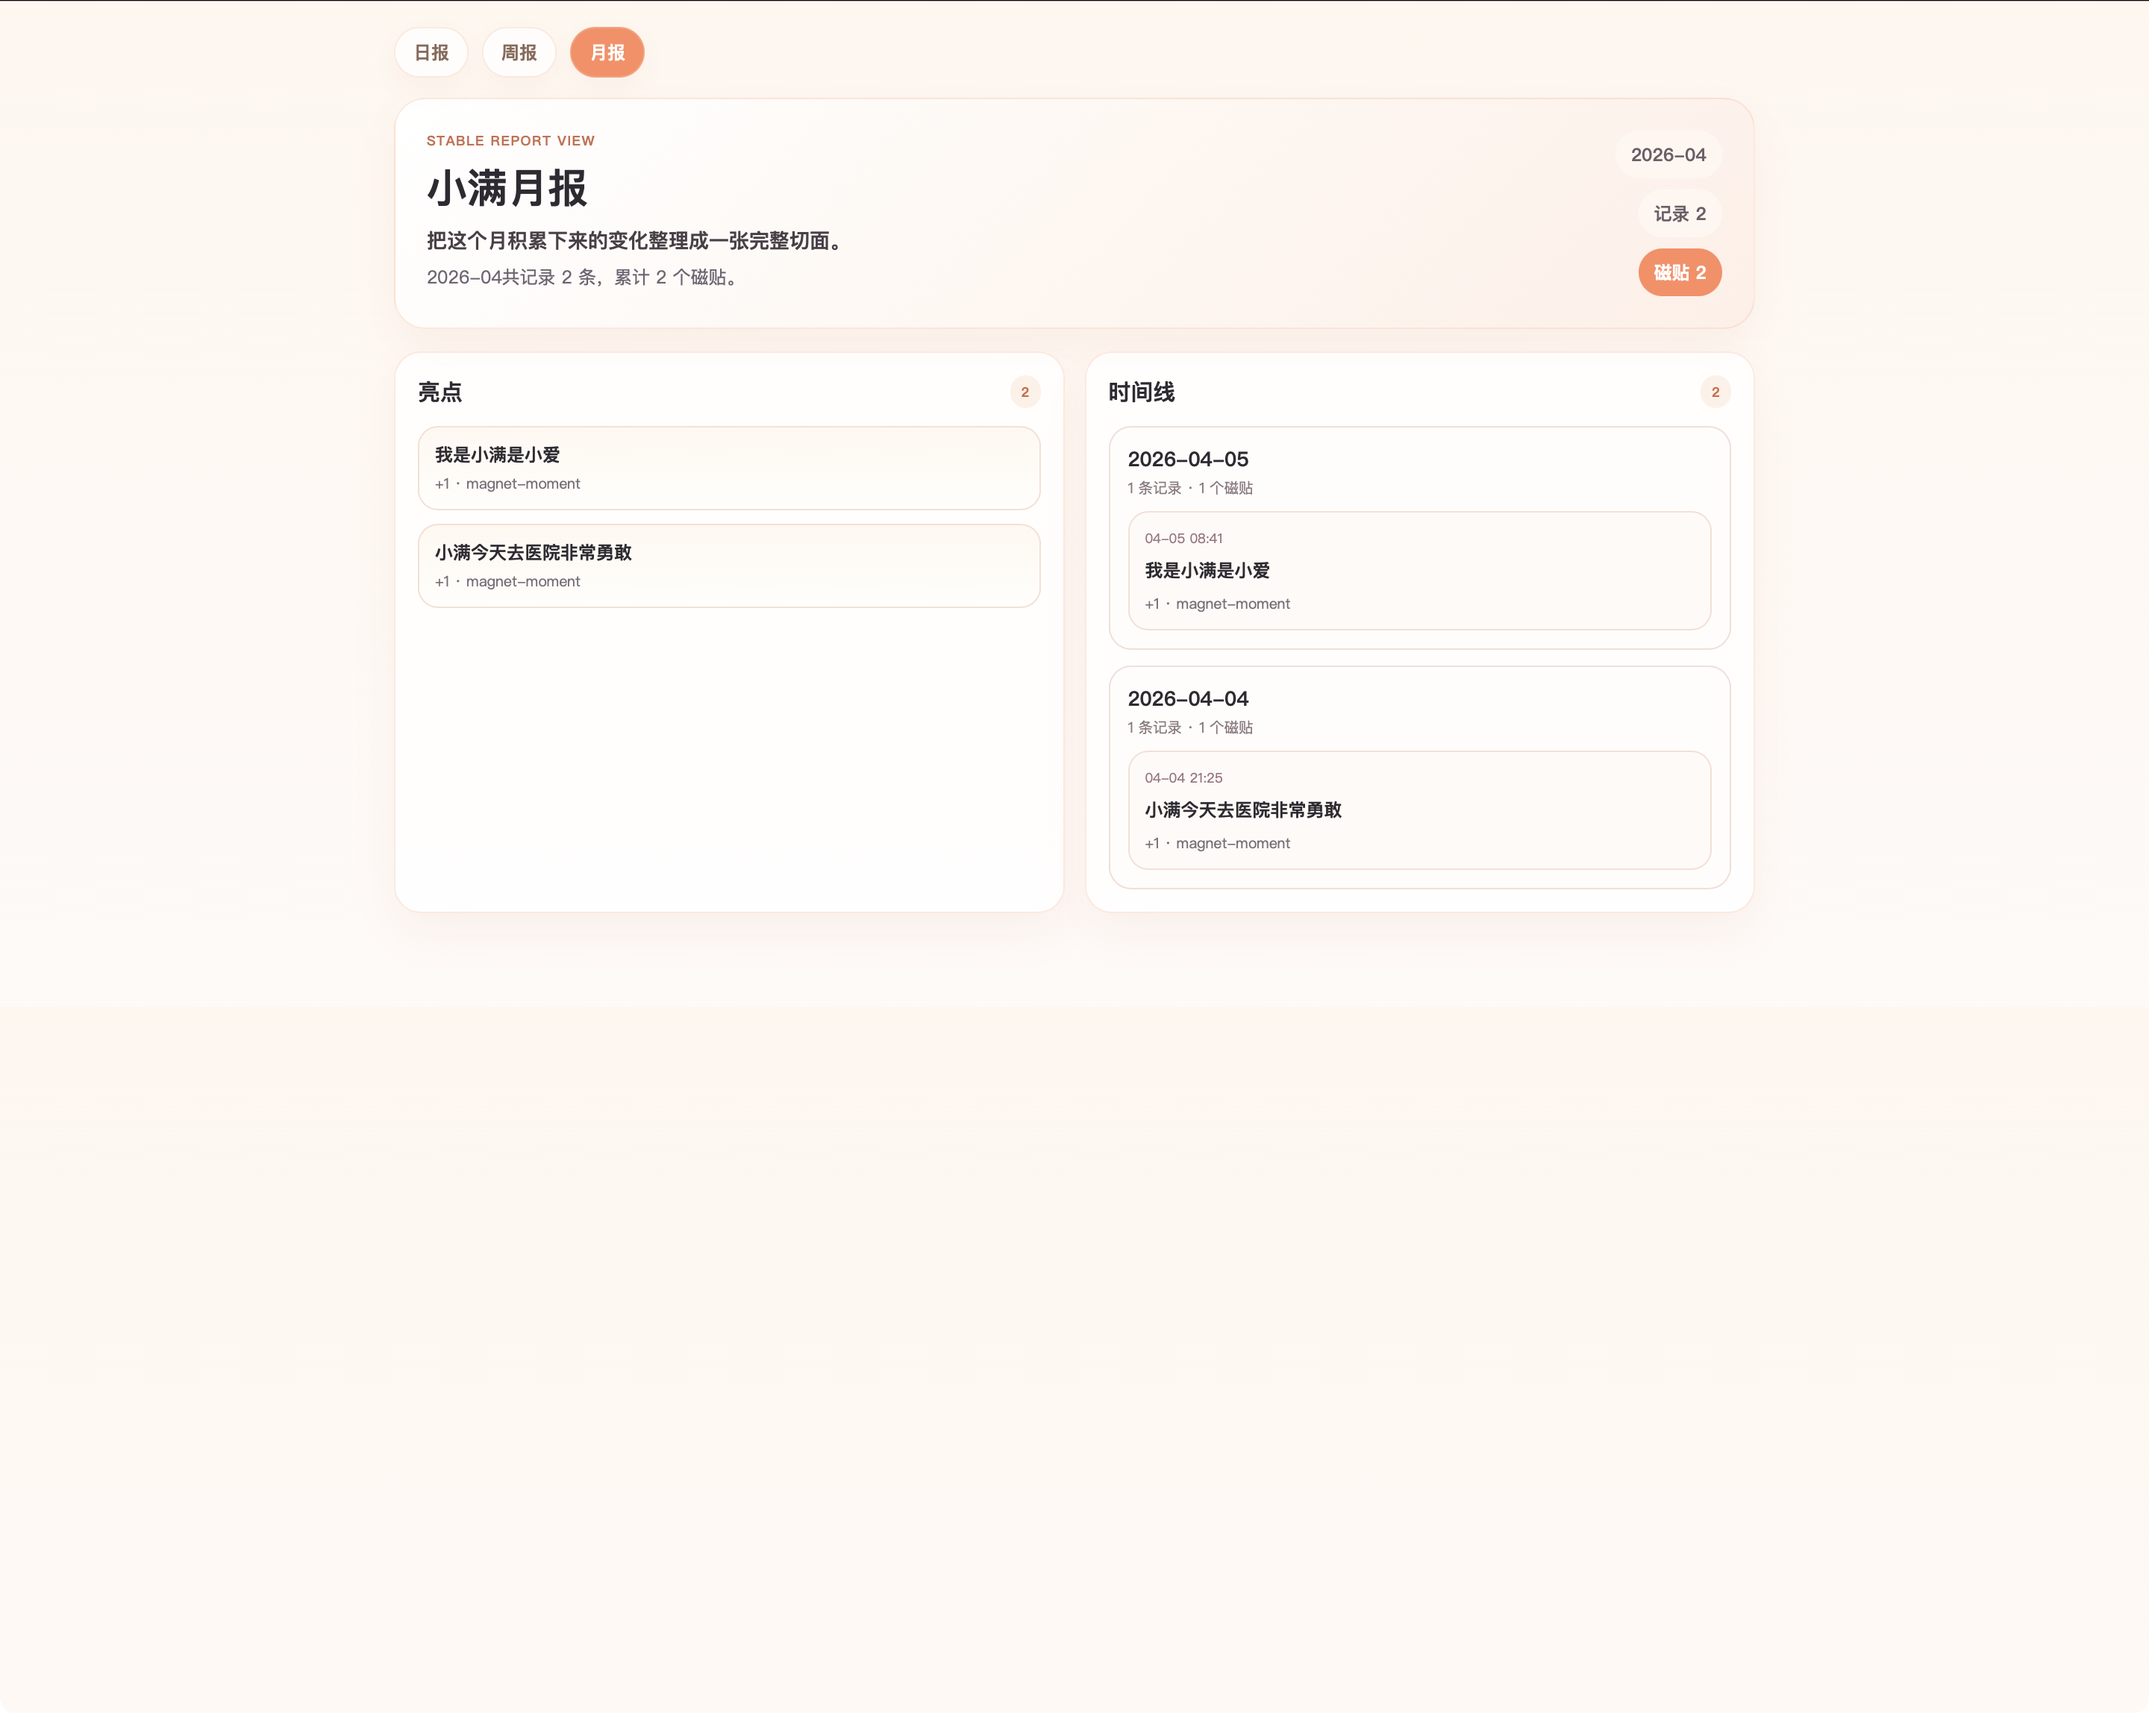
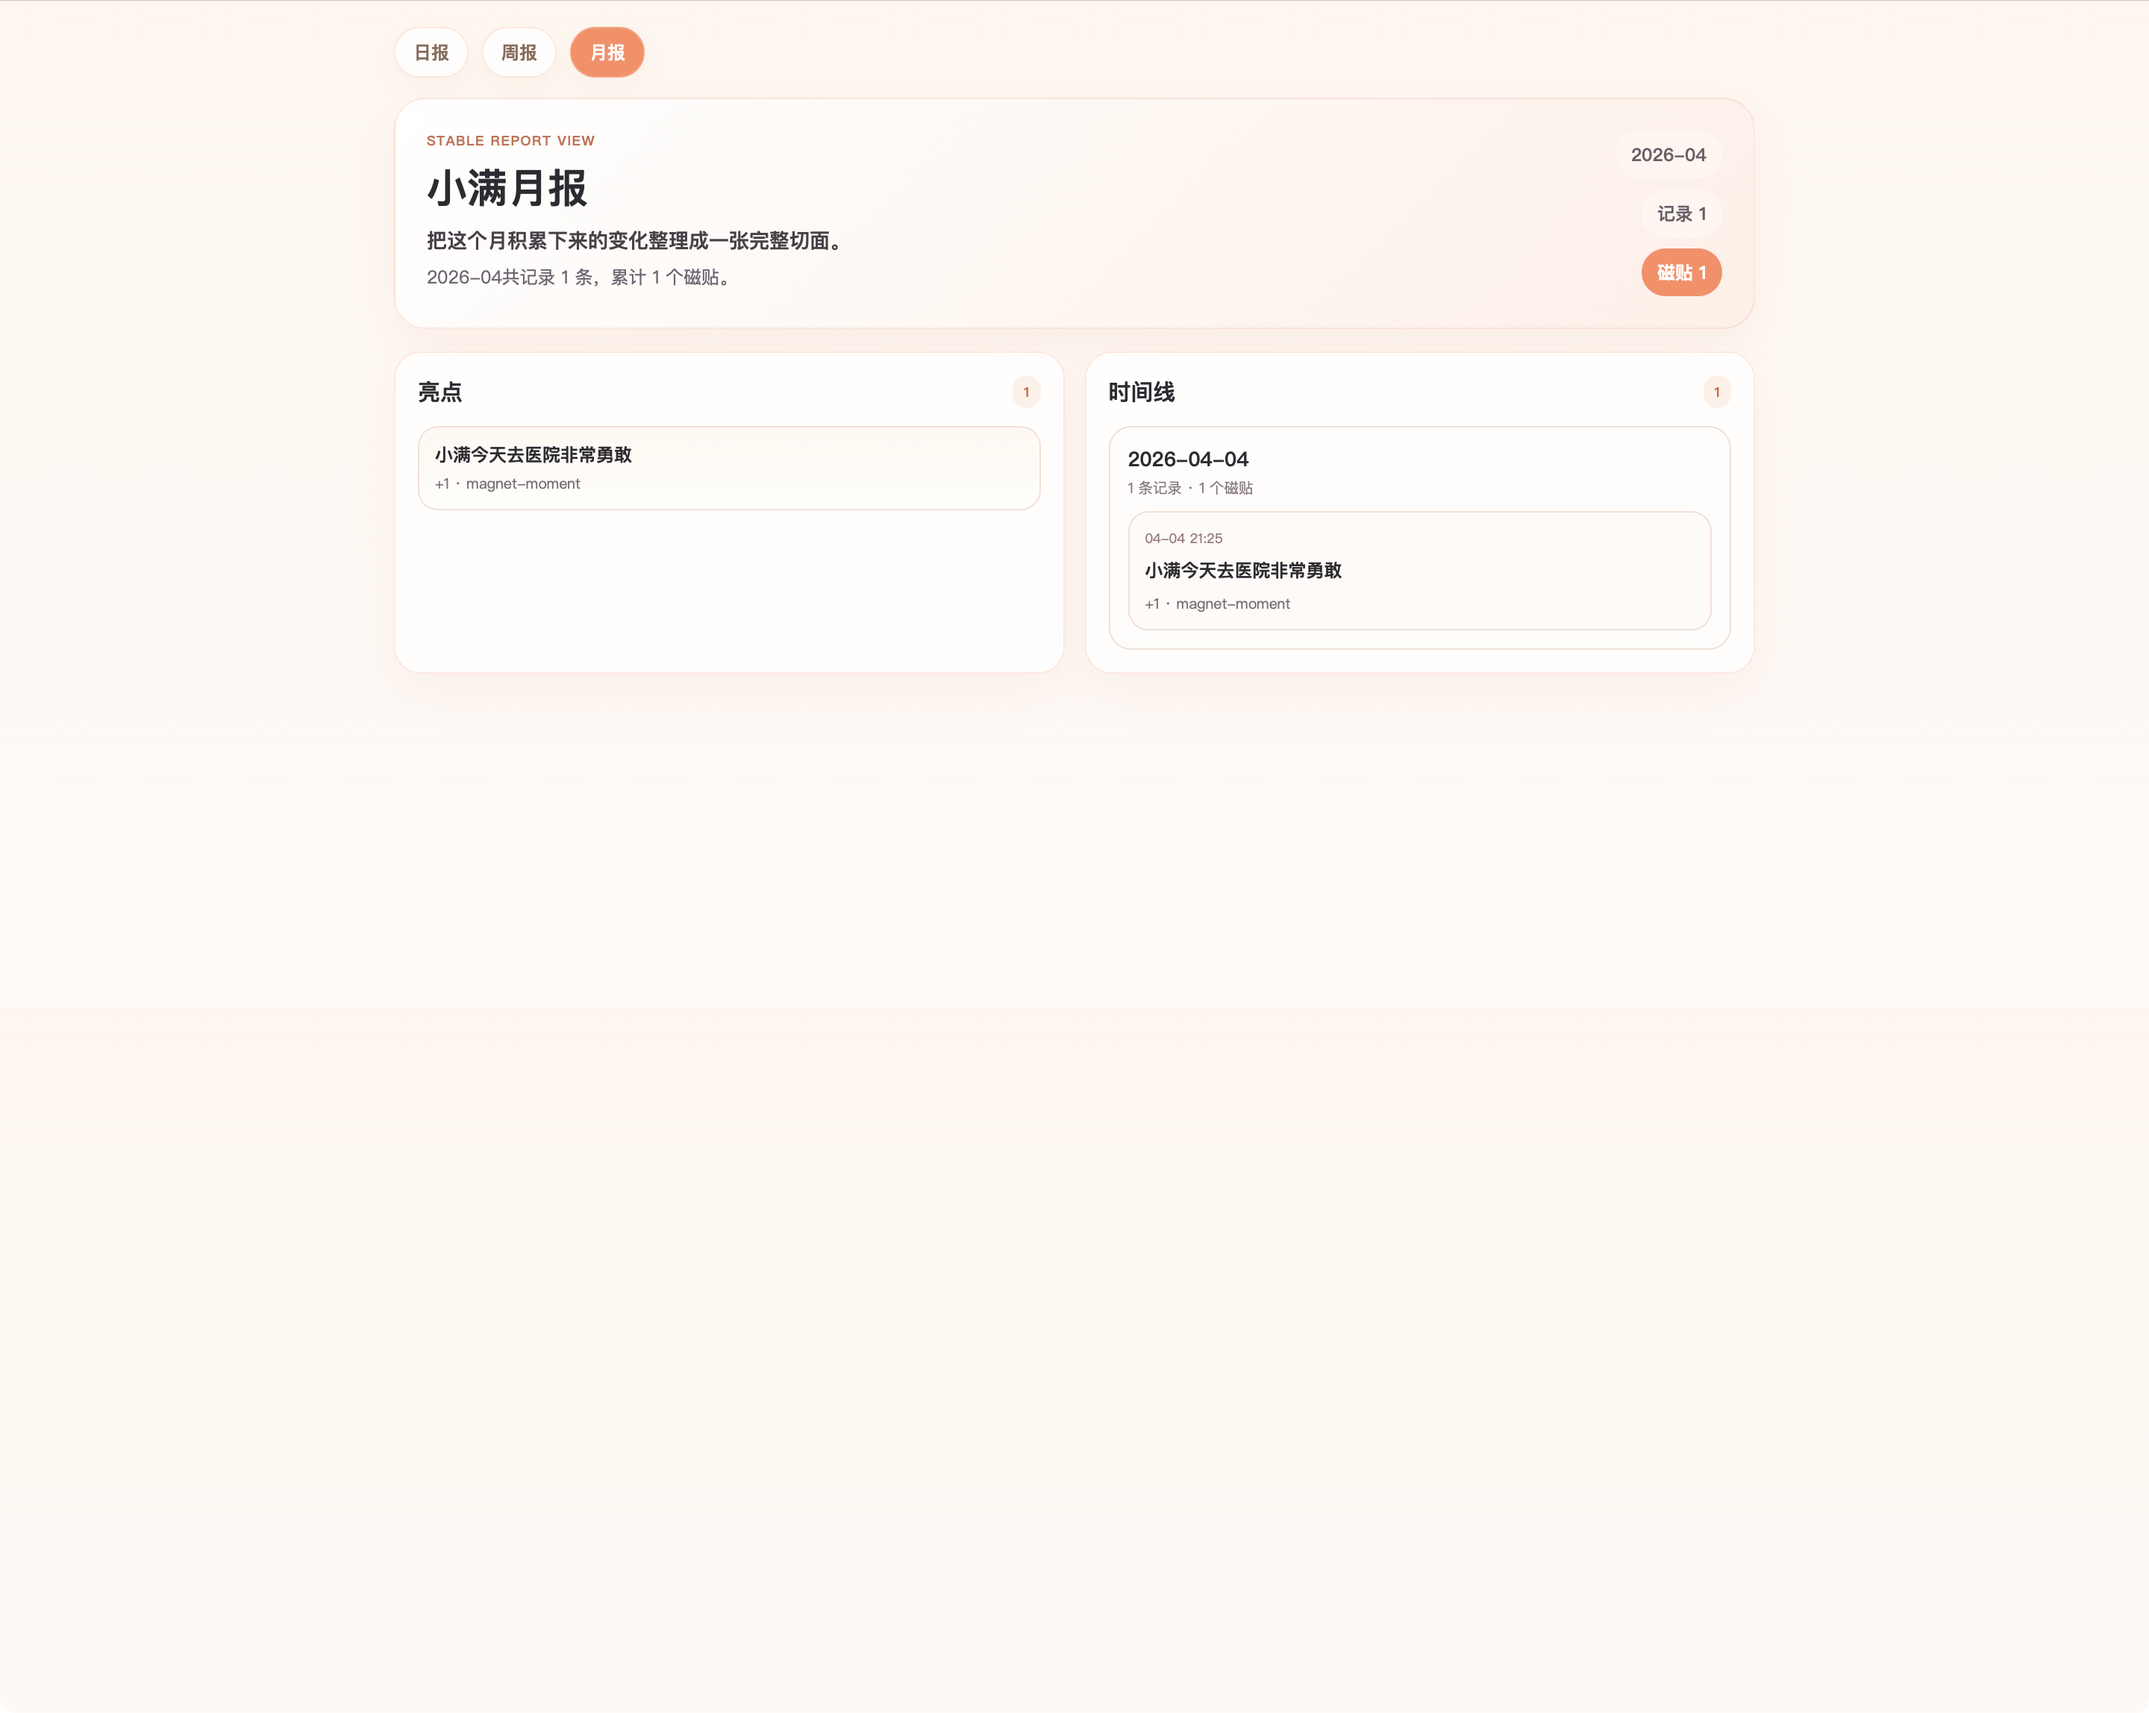
Refresh XiaoMan growth record pages

diff --git a/projects/xiaoman-growth-journal/index.html b/projects/xiaoman-growth-journal/index.html
@@ -64,6 +64,12 @@
       line-height: 1.7;
       max-width: 760px;
     }
+    .hero-meta {
+      margin-top: 14px;
+      color: var(--accent);
+      font-size: 14px;
+      letter-spacing: 0.04em;
+    }
     .overview-grid {
       display: grid;
       grid-template-columns: 1.2fr 0.8fr;
@@ -98,7 +104,7 @@
       font-size: 28px;
       line-height: 1;
     }
-    .mock-note {
+    .chart-note {
       font-size: 13px;
       color: var(--accent);
       margin-bottom: 14px;
@@ -239,6 +245,14 @@
       color: var(--muted);
       line-height: 1.7;
     }
+    .timeline-points {
+      margin: 10px 0 0;
+      padding-left: 18px;
+      color: var(--muted);
+    }
+    .timeline-points li {
+      margin-bottom: 6px;
+    }
     .footer-links {
       padding-top: 18px;
       display: flex;
@@ -292,6 +306,7 @@
       <div class="eyebrow">XiaoMan Growth Journal</div>
       <h1>小满成长记录</h1>
       <p>把日报、周报、月报放在同一个页面里纵向查看，适合连续回顾，也更适合手机端和网页端的滚动浏览。</p>
+      <div class="hero-meta" id="last-updated">更新于 --</div>
     </section>
 
     <section class="overview-grid">
@@ -308,7 +323,7 @@
 
       <div class="panel">
         <h2>图表预览</h2>
-        <div class="mock-note">以下柱状图是 Mock 交互预览，只用于看展示效果，不会写回也不会篡改任何真实报告数据。</div>
+        <div class="chart-note">以下柱状图基于当前月报中的真实时间线数据，展示本月每天的磁贴变化。</div>
         <div class="chart" id="mock-chart"></div>
       </div>
     </section>
@@ -331,6 +346,7 @@
       monthlyMagnets: document.getElementById("monthly-magnets"),
       monthlyDays: document.getElementById("monthly-days"),
       mockChart: document.getElementById("mock-chart"),
+      lastUpdated: document.getElementById("last-updated"),
     };
 
     function renderHighlights(items) {
@@ -359,7 +375,9 @@
             <span class="timeline-total">+${item.magnet_total || 0}</span>
           </div>
           <div class="timeline-meta">${item.count || 0} 条记录</div>
-          <div class="timeline-body">${(item.items || []).slice(0, 3).map((entry) => entry.description).join(" / ") || "暂无详情"}</div>
+          <ul class="timeline-points">
+            ${((item.items || []).slice(0, 3).map((entry) => `<li>${entry.description}</li>`).join("")) || "<li>暂无详情</li>"}
+          </ul>
         </article>
       `).join("");
     }
@@ -415,23 +433,28 @@
       `;
     }
 
-    function renderMockChart() {
-      const mockData = [
-        { label: "周一", value: 3 },
-        { label: "周二", value: 5 },
-        { label: "周三", value: 2 },
-        { label: "周四", value: 6 },
-        { label: "周五", value: 4 },
-        { label: "周末", value: 7 },
-      ];
-      const max = Math.max(...mockData.map((item) => item.value), 1);
-      refs.mockChart.innerHTML = mockData.map((item) => `
+    function formatGeneratedAt(value) {
+      if (!value) return "--";
+      const date = new Date(value);
+      if (Number.isNaN(date.getTime())) return value;
+      const pad = (num) => String(num).padStart(2, "0");
+      return `${date.getFullYear()}-${pad(date.getMonth() + 1)}-${pad(date.getDate())} ${pad(date.getHours())}:${pad(date.getMinutes())}`;
+    }
+
+    function renderChartFromTimeline(items) {
+      if (!items.length) {
+        refs.mockChart.innerHTML = '<div class="empty">本月还没有足够的时间线数据用于绘图。</div>';
+        return;
+      }
+      const ordered = [...items].sort((a, b) => a.date.localeCompare(b.date));
+      const max = Math.max(...ordered.map((item) => item.magnet_total || 0), 1);
+      refs.mockChart.innerHTML = ordered.map((item) => `
         <div class="bar-row">
-          <strong>${item.label}</strong>
+          <strong>${item.date.slice(5)}</strong>
           <div class="bar-track">
-            <div class="bar" style="width:${(item.value / max) * 100}%"></div>
+            <div class="bar" style="width:${((item.magnet_total || 0) / max) * 100}%"></div>
           </div>
-          <span>${item.value}</span>
+          <span>${item.magnet_total || 0}</span>
         </div>
       `).join("");
     }
@@ -457,17 +480,16 @@
       refs.weeklyMagnets.textContent = String(weekly.stats?.magnet_total ?? 0);
       refs.monthlyMagnets.textContent = String(monthly.stats?.magnet_total ?? 0);
       refs.monthlyDays.textContent = String(monthly.stats?.active_days ?? 0);
-      refs.overviewSummary.textContent = [
-        daily.summary || "日报暂无摘要。",
-        weekly.summary || "周报暂无摘要。",
-        monthly.summary || "月报暂无摘要。"
-      ].join(" ");
+      refs.overviewSummary.textContent = `今天新增 ${daily.stats?.count ?? 0} 条记录，本周累计 ${(weekly.stats?.count ?? 0)} 条，本月累计 ${(monthly.stats?.magnet_total ?? 0)} 个磁贴。`;
+      refs.lastUpdated.textContent = `更新于 ${formatGeneratedAt(monthly.generated_at || weekly.generated_at || daily.generated_at)}`;
+      renderChartFromTimeline(monthly.timeline || []);
     }
 
-    renderMockChart();
     loadReports().catch((error) => {
       refs.overviewSummary.textContent = String(error);
+      refs.lastUpdated.textContent = "更新失败";
       refs.grid.innerHTML = '<div class="panel">报告加载失败，请稍后重试。</div>';
+      refs.mockChart.innerHTML = '<div class="empty">图表加载失败，请稍后重试。</div>';
     });
   </script>
 </body>

diff --git a/index.html b/index.html
@@ -171,7 +171,7 @@
                         实验室 / 交互
                     </div>
                     <a href="projects/philosophy-flywheel/index.html" class="nav-item">生活哲学飞轮</a>
-                    <a href="projects/xiaoman-growth-journal/index.html" class="nav-item">小满周报</a>
+                    <a href="projects/xiaoman-growth-journal/index.html" class="nav-item">小满成长记录</a>
                     <a href="projects/project-table-tennis/index.html" class="nav-item">乒乓技术框架图谱</a>
                 </div>
 
@@ -203,8 +203,8 @@
                 </a>
 
                 <a href="projects/xiaoman-growth-journal/index.html" class="project-card">
-                    <h3>小满周报</h3>
-                    <p>把小满的成长记录整理成日报、周报、月报与截图，作为轻量可回顾的家庭成长页面。</p>
+                    <h3>小满成长记录</h3>
+                    <p>把小满的成长记录整理成日报、周报、月报与时间线图表，作为轻量可回顾的家庭成长页面。</p>
                     <div class="project-meta">2026.04.04 • 成长记录</div>
                 </a>
 

diff --git a/projects/xiaoman-growth-journal/data/weekly_summary.md b/projects/xiaoman-growth-journal/data/weekly_summary.md
@@ -1,16 +1,14 @@
 # 小满周报
 
-- 时间范围：2026-03-30 ~ 2026-04-05
-- 记录数：2
-- 磁贴总计：2
+- 时间范围：2026-04-06 ~ 2026-04-12
+- 记录数：0
+- 磁贴总计：0
 
 ## 摘要
-2026-03-30 ~ 2026-04-05共记录 2 条，累计 2 个磁贴。
+2026-04-06 ~ 2026-04-12暂无新的相关记录。
 
 ## 亮点
-- 我是小满是小爱（+1）
-- 小满今天去医院非常勇敢（+1）
+- 暂无亮点记录
 
 ## 全部记录
-- [04-05 08:41] 我是小满是小爱（+1）
-- [04-04 21:25] 小满今天去医院非常勇敢（+1）
+- 暂无记录

diff --git a/projects/xiaoman-growth-journal/data/monthly_summary.md b/projects/xiaoman-growth-journal/data/monthly_summary.md
@@ -1,16 +1,14 @@
 # 小满月报
 
 - 时间范围：2026-04
-- 记录数：2
-- 磁贴总计：2
+- 记录数：1
+- 磁贴总计：1
 
 ## 摘要
-2026-04共记录 2 条，累计 2 个磁贴。
+2026-04共记录 1 条，累计 1 个磁贴。
 
 ## 亮点
-- 我是小满是小爱（+1）
 - 小满今天去医院非常勇敢（+1）
 
 ## 全部记录
-- [04-05 08:41] 我是小满是小爱（+1）
 - [04-04 21:25] 小满今天去医院非常勇敢（+1）

diff --git a/projects/xiaoman-growth-journal/data/daily_summary.md b/projects/xiaoman-growth-journal/data/daily_summary.md
@@ -1,14 +1,14 @@
 # 小满日报
 
-- 时间范围：2026-04-05
-- 记录数：1
-- 磁贴总计：1
+- 时间范围：2026-04-06
+- 记录数：0
+- 磁贴总计：0
 
 ## 摘要
-2026-04-05共记录 1 条，累计 1 个磁贴。
+2026-04-06暂无新的相关记录。
 
 ## 亮点
-- 我是小满是小爱（+1）
+- 暂无亮点记录
 
 ## 全部记录
-- [04-05 08:41] 我是小满是小爱（+1）
+- 暂无记录
